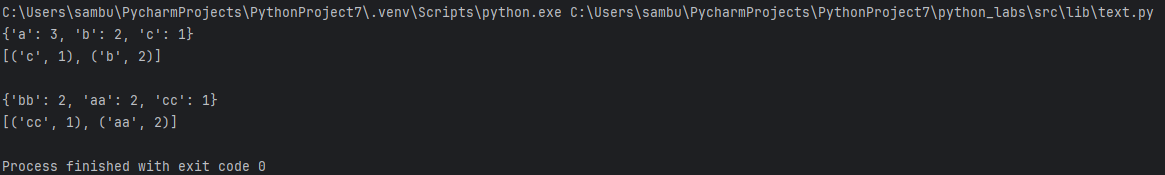
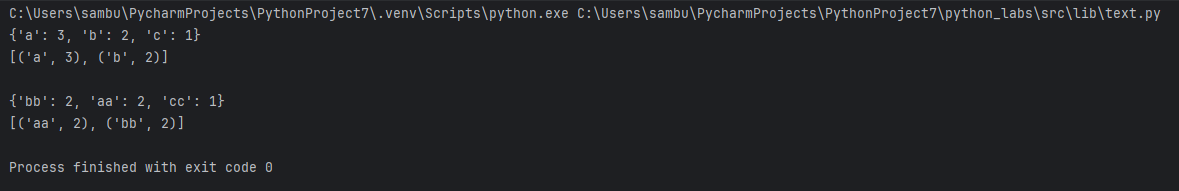
commit message

diff --git a/src/lib/text.py b/src/lib/text.py
@@ -40,12 +40,12 @@ def count_freq(tokens: list[str]) -> dict[str, int]:
     return res
 
 def top_n(freq: dict[str, int], n: int = 5) -> list[tuple[str, int]]:
-    return sorted([(i, freq[i]) for i in freq.keys()], key=lambda x: (x[1], x[0]))[:n]
+    return sorted([(i, freq[i]) for i in freq.keys()], key=lambda x: (2**63-x[1], x[0]))[:n]
 
-# a = ["a","b","a","c","b","a"]
-# print(a := count_freq(a))
-# print(top_n(a, n=2))
-# print()
-# a = ["bb","aa","bb","aa","cc"]
-# print(a := count_freq(a))
-# print(top_n(a, n=2))
+a = ["a","b","a","c","b","a"]
+print(a := count_freq(a))
+print(top_n(a, n=2))
+print()
+a = ["bb","aa","bb","aa","cc"]
+print(a := count_freq(a))
+print(top_n(a, n=2))

diff --git a/README.md b/README.md
@@ -214,7 +214,7 @@ def count_freq(tokens: list[str]) -> dict[str, int]:
     return res
 
 def top_n(freq: dict[str, int], n: int = 5) -> list[tuple[str, int]]:
-    return sorted([(i, freq[i]) for i in freq.keys()], key=lambda x: (x[1], x[0]))[:n]
+    return sorted([(i, freq[i]) for i in freq.keys()], key=lambda x: (2**63-x[1], x[0]))[:n]
 
 a = ["a","b","a","c","b","a"]
 print(a := count_freq(a))
